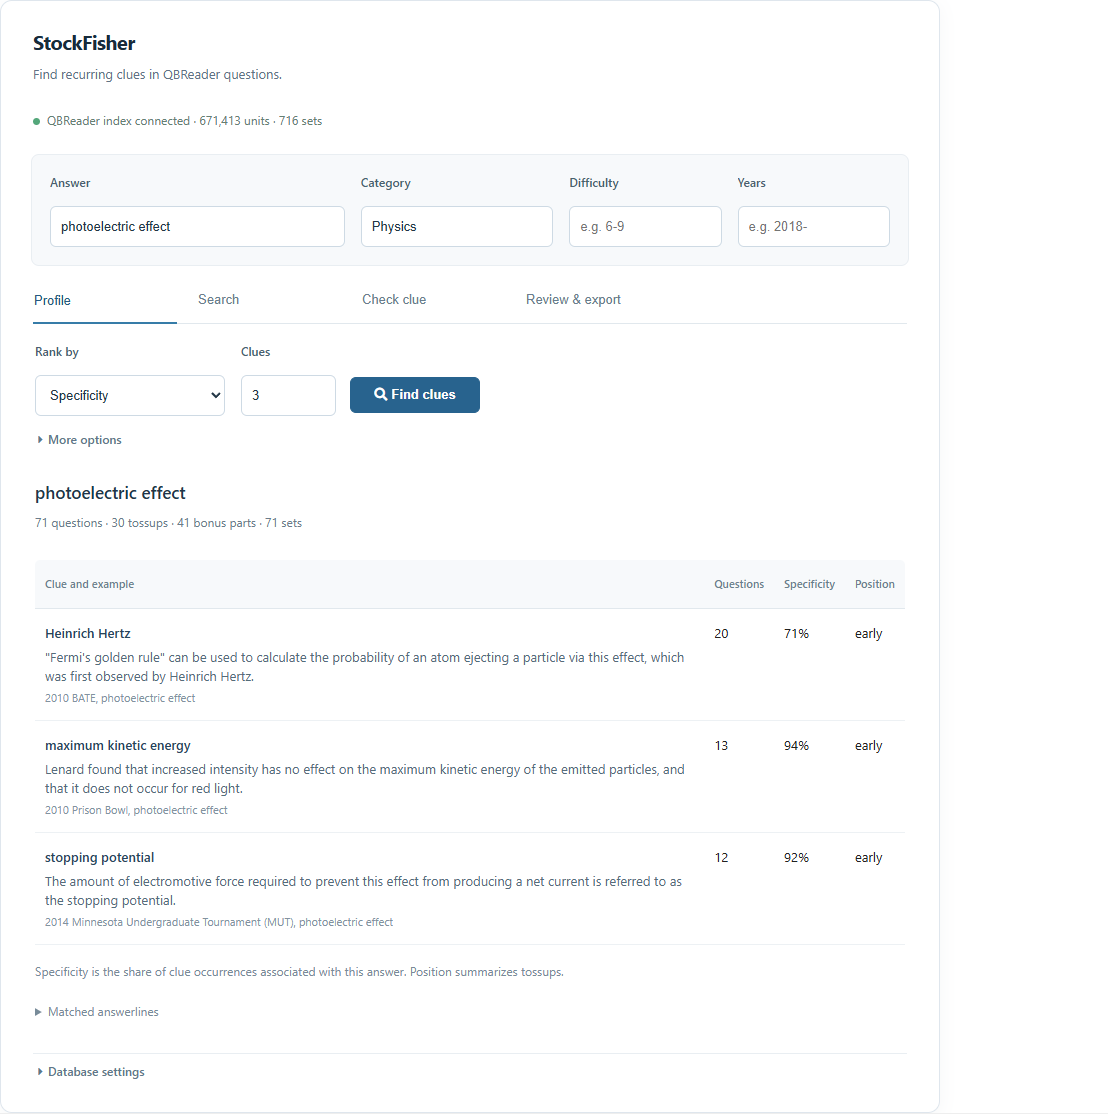
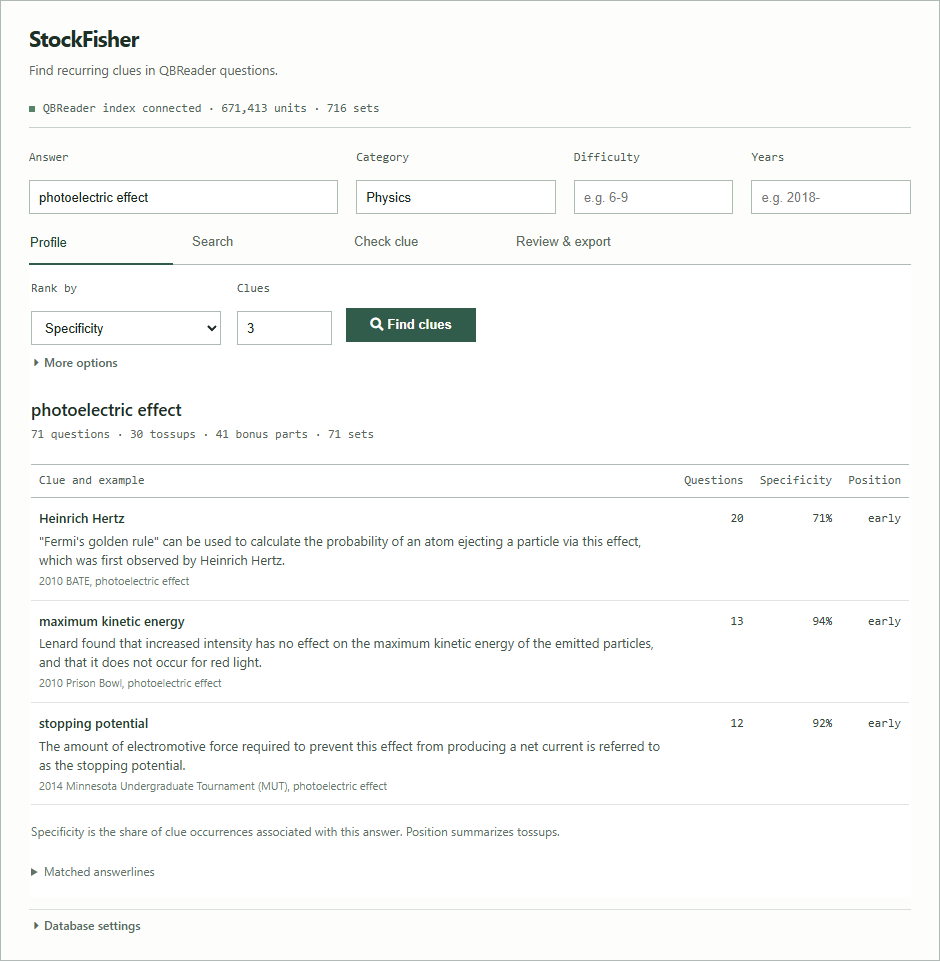
Simplify StockFisher notebook interface

diff --git a/qbr/notebook.py b/qbr/notebook.py
@@ -14,7 +14,7 @@ def _escape(value):
     return html.escape(str(value if value is not None else ""))
 
 
-def _table(headers, rows):
+def _table(headers, rows, profile=False):
     if not rows:
         return "<p>No results to show.</p>"
     heading = "".join("<th>%s</th>" % _escape(h) for h in headers)
@@ -22,75 +22,75 @@ def _table(headers, rows):
         "<tr>%s</tr>" % "".join("<td>%s</td>" % cell for cell in row)
         for row in rows
     )
-    return "<table class='sf-table'><thead><tr>%s</tr></thead><tbody>%s</tbody></table>" % (heading, body)
+    table_class = "sf-table sf-profile-table" if profile else "sf-table"
+    return "<table class='%s'><thead><tr>%s</tr></thead><tbody>%s</tbody></table>" % (table_class, heading, body)
 
 
 _STYLE = """<style>
 .stockfisher {
-  --sf-ink:#1d2939; --sf-muted:#617286; --sf-border:#dce4eb; --sf-accent:#28638e;
-  box-sizing:border-box; color:var(--sf-ink); background:#fff;
-  border:1px solid #dfe6ed; border-radius:12px; padding:26px 30px 22px;
-  font:14px/1.5 -apple-system,BlinkMacSystemFont,'Segoe UI',sans-serif;
-  box-shadow:0 4px 18px rgba(30,50,70,.045);
+  --ink:#202723; --muted:#5e6a64; --rule:#c9d1cb; --accent:#315b4b;
+  box-sizing:border-box; color:var(--ink); background:#fdfdfb;
+  border:1px solid #aebbb2; padding:22px 26px 18px;
+  font:14px/1.5 -apple-system,BlinkMacSystemFont,"Segoe UI",sans-serif;
 }
-.stockfisher .sf-heading {font-size:20px; font-weight:650; letter-spacing:-.025em; line-height:1.3; color:#182b3b;}
-.stockfisher .sf-subtitle {color:var(--sf-muted); font-size:13px; margin:5px 0 0;}
-.stockfisher .sf-status {font-size:12px; color:#658073; margin:14px 0 18px;}
-.stockfisher .sf-status .dot {display:inline-block; width:7px; height:7px; border-radius:50%; background:#54a77a; margin-right:7px;}
-.stockfisher .sf-fields {display:flex; flex-wrap:wrap; gap:12px; padding:16px; border:1px solid #e9eef2;
-  background:#f7f9fb; border-radius:8px; box-sizing:border-box;}
-.stockfisher .sf-field {display:flex !important; flex-direction:column !important; align-items:stretch !important; gap:5px;}
+.stockfisher .sf-heading {font-size:22px; font-weight:650; letter-spacing:-.035em; line-height:1.2; color:#1e3026;}
+.stockfisher .sf-subtitle {color:#596760; font-size:13px; margin:4px 0 0;}
+.stockfisher .sf-status {font:12px/1.4 ui-monospace,Consolas,monospace; color:#50665a;
+  margin:12px 0 16px; padding:0 0 11px; border-bottom:1px solid #c9d1cb;}
+.stockfisher .sf-status .dot {display:inline-block; width:6px; height:6px; background:#558467; margin-right:8px;}
+.stockfisher .sf-fields {display:flex; flex-wrap:wrap; gap:14px; box-sizing:border-box;}
+.stockfisher .sf-field {display:flex !important; flex-direction:column !important; align-items:stretch !important; gap:4px;}
 .stockfisher .sf-field > .widget-label {width:auto !important; min-width:0 !important; text-align:left !important;
-  padding:0 !important; margin:0 !important; font-size:12px; font-weight:500; color:#495f70; line-height:18px;}
-.stockfisher .sf-field > input, .stockfisher .sf-field > select, .stockfisher .sf-field > textarea {box-sizing:border-box; width:100% !important;
-  height:36px !important; min-height:36px !important; padding:6px 10px !important; font-size:13px;
-  color:#223646; background:#fff !important; border:1px solid #cedae4 !important; border-radius:6px !important;
-  box-shadow:none !important;}
+  padding:0 !important; margin:0 !important; color:#4d5c53; font:12px/18px ui-monospace,Consolas,monospace;}
+.stockfisher .sf-field > input, .stockfisher .sf-field > select, .stockfisher .sf-field > textarea {
+  box-sizing:border-box; width:100% !important; height:34px !important; min-height:34px !important;
+  padding:6px 9px !important; color:#17251d; background:#fff !important; border:1px solid #aebbb2 !important;
+  border-radius:0 !important; box-shadow:none !important; font-size:13px;}
 .stockfisher .sf-field > select {appearance:auto !important; padding-right:24px !important;}
 .stockfisher .sf-long > textarea {height:90px !important; resize:vertical;}
 .stockfisher .sf-field > input:focus, .stockfisher .sf-field > select:focus,
-.stockfisher .sf-field > textarea:focus {outline:2px solid #b2d2e8; outline-offset:1px;}
-.stockfisher .widget-tab-bar {margin:20px 0 0 !important; border-bottom:1px solid #e1e8ed !important;}
-.stockfisher .widget-tab-bar .lm-TabBar-content {gap:20px;}
+.stockfisher .sf-field > textarea:focus {outline:2px solid #71927f; outline-offset:1px;}
+.stockfisher .widget-tab-bar {margin:12px 0 0 !important; border-bottom:1px solid #aebbb2 !important;}
+.stockfisher .widget-tab-bar .lm-TabBar-content {gap:18px;}
 .stockfisher .widget-tab-bar .lm-TabBar-tab {background:transparent !important; border:0 !important;
-  border-bottom:2px solid transparent !important; margin:0 !important; padding:0 1px 9px !important;
-  color:#697d8d !important; font-size:13px !important; min-width:0 !important;}
-.stockfisher .widget-tab-bar .lm-TabBar-tab.lm-mod-current {color:#245b80 !important; border-bottom-color:#367ca8 !important;}
+  border-bottom:2px solid transparent !important; margin:0 !important; padding:0 1px 8px !important;
+  color:#596a60 !important; font-size:13px !important; min-width:0 !important;}
+.stockfisher .widget-tab-bar .lm-TabBar-tab.lm-mod-current {color:#1e4632 !important; border-bottom-color:#315b4b !important;}
 .stockfisher .widget-tab-bar .lm-TabBar-tab::before {display:none !important;}
-.stockfisher .widget-tab-contents {padding:16px 0 0 !important; border:0 !important;}
+.stockfisher .widget-tab-contents {padding:12px 0 0 !important; border:0 !important;}
 .stockfisher .sf-actions {display:flex; flex-wrap:wrap; align-items:flex-end; gap:12px;}
-.stockfisher .sf-actions .widget-button {height:36px !important; margin:0 0 5px !important; padding:0 17px !important;
-  border:1px solid #28638e !important; border-radius:6px !important; background:#28638e !important;
+.stockfisher .sf-actions .widget-button {height:34px !important; margin:0 0 5px !important; padding:0 14px !important;
+  border:1px solid #315b4b !important; border-radius:0 !important; background:#315b4b !important;
   color:#fff !important; font-size:13px; font-weight:600; box-shadow:none !important;}
-.stockfisher .sf-actions .widget-button:hover {background:#1e5178 !important;}
-.stockfisher .sf-button:not(.mod-primary) {height:36px !important; padding:0 14px !important;
-  border:1px solid #cdd9e2 !important; border-radius:6px !important; background:#fff !important;
-  color:#36546a !important; font-size:13px; box-shadow:none !important;}
-.stockfisher .sf-button:not(.mod-primary):hover {background:#f4f8fa !important;}
-.stockfisher .sf-options {margin:4px 0 4px;}
+.stockfisher .sf-actions .widget-button:hover {background:#234738 !important;}
+.stockfisher .sf-button:not(.mod-primary) {height:34px !important; padding:0 14px !important;
+  border:1px solid #9eafa4 !important; border-radius:0 !important; background:#fff !important;
+  color:#2e4d3b !important; font-size:13px; box-shadow:none !important;}
+.stockfisher .sf-button:not(.mod-primary):hover {background:#f0f4f0 !important;}
+.stockfisher .sf-options {margin:0 0 3px;}
 .stockfisher .sf-options .jupyter-widget-Collapse-header,
 .stockfisher .sf-database .jupyter-widget-Collapse-header {background:transparent !important; border:0 !important;
-  color:#60778a !important; padding:8px 0 !important; font-size:12px; font-weight:500;}
+  color:#536b5d !important; padding:6px 0 !important; font-size:12px; font-weight:500;}
 .stockfisher .sf-options .widget-checkbox {width:auto !important; margin-right:20px;}
 .stockfisher .sf-options .widget-checkbox > .widget-label {display:none;}
 .stockfisher .sf-options .jupyter-widget-Collapse-contents,
-.stockfisher .sf-database .jupyter-widget-Collapse-contents {border:0 !important; padding:4px 0 12px !important;}
-.stockfisher .sf-database {margin-top:12px; border-top:1px solid #e9eef2;}
-.stockfisher .sf-result-heading {font-size:17px; font-weight:600; color:#203649; margin:16px 0 2px;}
-.stockfisher .sf-result-summary {font-size:12px; color:#6a7c8b; margin:0 0 12px;}
+.stockfisher .sf-database .jupyter-widget-Collapse-contents {border:0 !important; padding:4px 0 10px !important;}
+.stockfisher .sf-database {margin-top:10px; border-top:1px solid #d9e0db;}
+.stockfisher .sf-result-heading {font-size:17px; font-weight:600; color:#1d2c24; margin:13px 0 2px;}
+.stockfisher .sf-result-summary {font:12px/1.5 ui-monospace,Consolas,monospace; color:#596960; margin:0 0 9px;}
 .stockfisher .sf-table {width:100%; border-collapse:collapse; margin:8px 0; font-size:13px;}
-.stockfisher .sf-table th {text-align:left; padding:10px 10px; color:#6b7e8e; font-size:11px; font-weight:600;
-  background:#f7f9fb; border-bottom:1px solid #e1e8ed; white-space:nowrap;}
-.stockfisher .sf-table th:first-child {border-radius:5px 0 0 0;}
-.stockfisher .sf-table th:last-child {border-radius:0 5px 0 0;}
-.stockfisher .sf-table td {padding:14px 10px; border-bottom:1px solid #edf1f4; vertical-align:top; line-height:1.5;}
-.stockfisher .sf-clue {font-weight:600; color:#27455b;}
-.stockfisher .sf-example {display:block; color:#556c7b; margin-top:4px;}
-.stockfisher .sf-source {display:block; color:#82929f; font-size:11px; margin-top:4px;}
-.stockfisher .sf-meta {color:#788b99; font-size:12px;}
-.stockfisher details.sf-meta {margin:12px 0;}
+.stockfisher .sf-table th {text-align:left; padding:8px 8px; color:#4f6156;
+  font:12px/1.3 ui-monospace,Consolas,monospace; border-top:1px solid #aebbb2; border-bottom:1px solid #aebbb2; white-space:nowrap;}
+.stockfisher .sf-table td {padding:11px 8px; border-bottom:1px solid #e0e5e1; vertical-align:top; line-height:1.45;}
+.stockfisher .sf-profile-table th:not(:first-child), .stockfisher .sf-profile-table td:not(:first-child) {text-align:right; white-space:nowrap;}
+.stockfisher .sf-profile-table td:not(:first-child) {font:12px/1.5 ui-monospace,Consolas,monospace; color:#34483b;}
+.stockfisher .sf-clue {font-weight:600; color:#203a2b;}
+.stockfisher .sf-example {display:block; color:#44554c; margin-top:4px;}
+.stockfisher .sf-source {display:block; color:#697b70; font-size:11px; margin-top:3px;}
+.stockfisher .sf-meta {color:#62726a; font-size:12px;}
+.stockfisher details.sf-meta {margin:10px 0;}
 .stockfisher details.sf-meta summary {cursor:pointer;}
-@media (max-width:620px) {.stockfisher {padding:20px 16px;} .stockfisher .widget-tab-bar .lm-TabBar-content {gap:10px;}}
+@media (max-width:620px) {.stockfisher {padding:18px 14px;} .stockfisher .widget-tab-bar .lm-TabBar-content {gap:9px;}}
 </style>"""
 
 
@@ -151,7 +151,7 @@ class StockFisherNotebook:
                                    (self.limit, "95px", "0 1 95px")):
             field.layout.width = width
             field.layout.flex = grow
-            field.layout.height = "74px"
+            field.layout.height = "66px"
             field.add_class("sf-field")
 
         self.profile_button = widgets.Button(description="Find clues", icon="search", button_style="primary",
@@ -304,7 +304,7 @@ class StockFisherNotebook:
                 rows.append(cells)
             headers = ["Clue and example", "Questions", "Specificity", "Position"] + (["Anki"] if self.use_anki.value else [])
             foils = ", ".join(_escape(foil["answer"]) for foil in result.get("foils", []))
-            self.profile_output.value = (_table(headers, rows) +
+            self.profile_output.value = (_table(headers, rows, profile=True) +
                                          ("<p>Related answers: %s</p>" % foils if foils else "") +
                                          "<p class='sf-meta'>Specificity is the share of clue occurrences associated with this answer. Position summarizes tossups.</p>" +
                                          "<details class='sf-meta'><summary>Matched answerlines</summary>%s</details>" % (lines or "none"))
